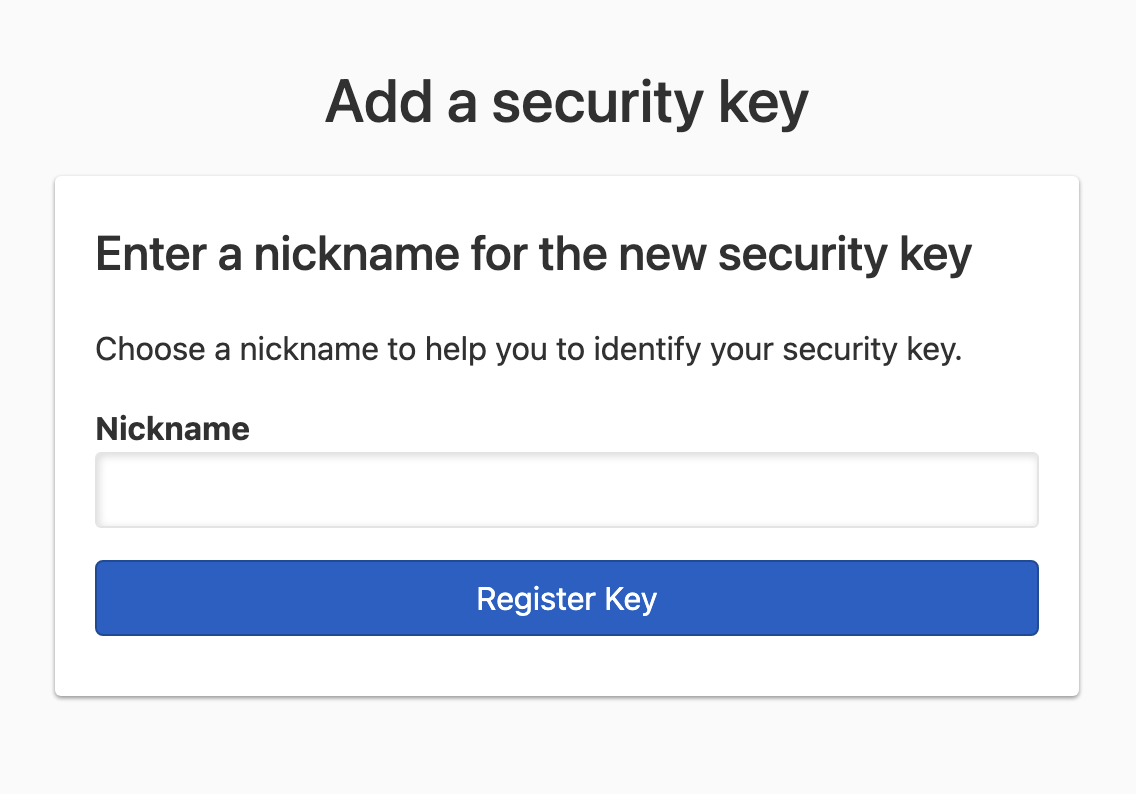
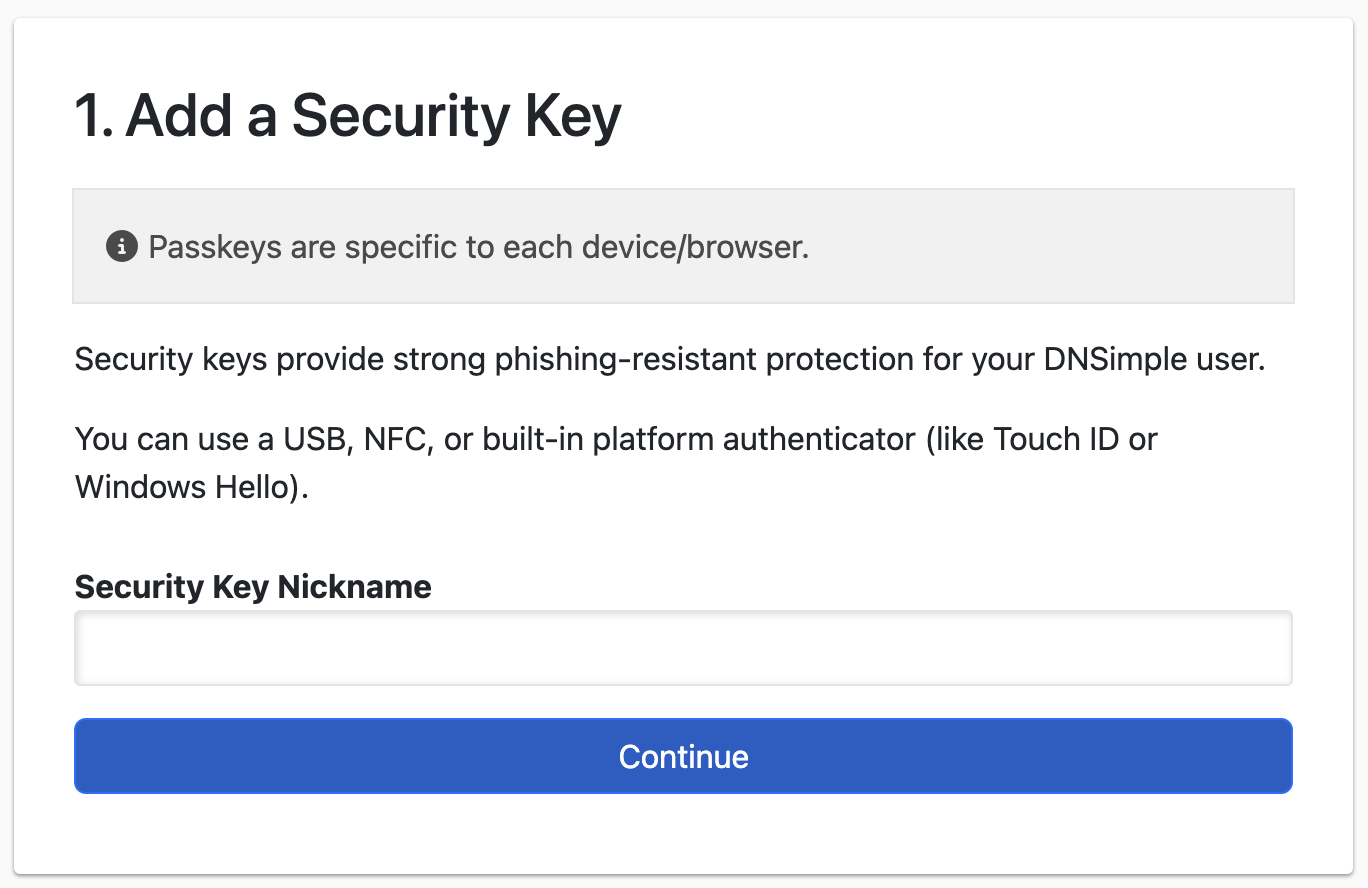
change: Update Security Key setup docs & screenshots

diff --git a/content/articles/multi-factor-authentication.md b/content/articles/multi-factor-authentication.md
@@ -71,18 +71,14 @@ When you enable MFA for your user profile, you'll be logged out of all currently
     ![Enable security key](/files/user-mfa-enable-mfa-with-security-key.png)
 
 1. Enter a nickname to help you identify the security key you're registering.
+    ![Security key nickname with recovery code](/files/user-mfa-enable-security-key-nickname.png)
 
-> [!NOTE]
-> ![Security key nickname](/files/user-mfa-enable-security-key-nickname.png)
->       If this is the first multi-factor authentication method you're setting up, the screen (shown below) will look slightly different, because a [recovery code](#recovery-code) will be generated, and you'll need to confirm it. **Copy and store the [recovery code](#recovery-code) in a safe place.**
+1. Click **Continue** — you should see a prompt to choose the type of security key you want to activate. The prompt will look different depending on your platform and browser. Select the security key type, and activate it to complete the security key setup process.
 
-    ![Security key nickname with recovery code](/files/user-mfa-enable-security-key-nickname-with-recovery-code.png)
+1. Copy your recovery code by clicking **Copy to clipboard**. Store your recovery code in a safe place, like a password or secret management application. You should also click **Download recovery code (PDF)** to download a PDF file with the necessary information to recover your account should you lose access to all your multi-factor authentication devices.
 
-1. Click **Register Key** — you'll see this if you have an alternative multi-factor authentication method already set up. You should see a prompt to choose the type of security key you want to activate. The prompt will look different depending on your platform and browser. Select the security key type, and activate it to complete the security key setup process.
+    Fill in the form with the last 4 characters of your recovery code, and click **Continue** to complete your security key registration.
 
-    However, if this is the only multi-factor authentication method you have set up, you'll see a **Continue** button instead of **Register Key**. Click on **Continue** to confirm the recovery code, then you can complete the security key setup process.
-
-1. Fill in the form with the recovery code, and click **Confirm recovery and register key**. You should see a prompt to choose the type of security key you want to activate. The prompt will look different depending on your platform and browser. Select the security key type, and activate it.
     ![Multi-factor confirm recovery code](/files/user-mfa-enable-security-key-confirm-recovery-code.png)
 
 > [!NOTE]